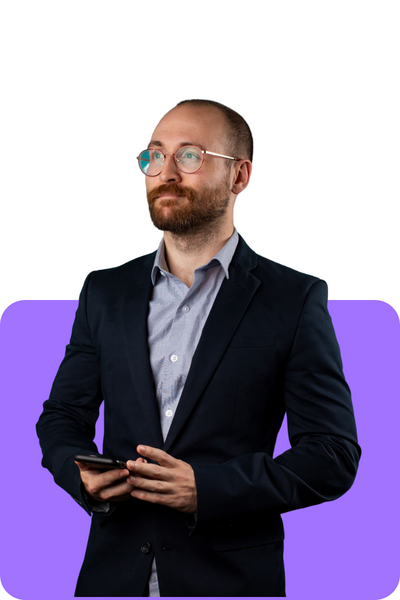
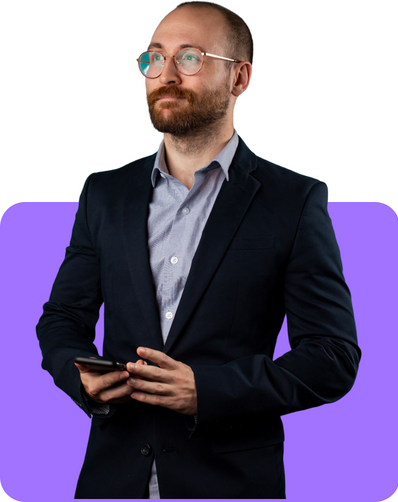
85% pronto

diff --git a/index.html b/index.html
@@ -13,12 +13,7 @@
             height: 92.5vh;
         }
         .w-350{
-            width: 450px;
-            height: fit-content;
-        }
-
-        .img-correct{
-            width: 450px;
+            width: 350px;
             height: fit-content;
         }
     </style>
@@ -37,10 +32,10 @@
                         <a href="#" class="nav-link active" aria-current="page">Home</a>
                     </li>
                     <li class="nav-item mx-4">
-                        <a href="#" class="nav-link" aria-current="page">About Us</a>
+                        <a href="#about-us" class="nav-link" aria-current="page">About Us</a>
                     </li>
                     <li class="nav-item mx-4">
-                        <a href="#" class="nav-link" aria-current="page">Contact</a>
+                        <a href="#" class="nav-link disabled" aria-current="page">Contact</a>
                     </li>
                     <button class="btn btn-primary">
                        <a href="#" class="text-light btn p-0">Subscribe</a> 
@@ -51,29 +46,29 @@
     </nav>
 
     <main>
-        <div class="container d-flex flex-column flex-lg-row align-items-center vh-80">
+        <div class="container d-flex flex-column flex-lg-row align-items-center h-50 pb-5 pt-5 p-0">
             <div class="d-flex justify-content-center flex-column p-md-5">
                 <h1 class="m-md-3 display-1 font-weight-bold">Study and Grow Up with us</h1>
-                <p class="m-md-3 fs-3 font-weight-bold display-7">sign up now and get access to a variety of classes and support from professionals in the field</p>
+                <p class="m-md-3 fs-3 font-weight-bold                                      display-md-7 text-justify">sign up now and get access to a variety of classes and support from professionals in the field</p>
                 <button class="m-md-3 btn btn-info w-50" type="button">
                   <a href="#" class="text-light btn p-0">Subscribe now!</a>  
                 </button>
             </div>
-            <img  class="w-sm-50 d-block m-md-3 w-350" src="./assets/Design sem nome (3).png" alt="">
+            <img  class="w-sm-50 d-block m-md-3 w-350 w-50 mw-100 d-md-block d-none h" src="./assets/Design sem nome (3).png" alt="">
         </div>
-        <hr>
-        <div class="d-flex justify-content-center flex-row p-md-5">
-            <div class="card text-center w-350 m-2">
-                <img class="card-img-top w-350 img-correct" src="./assets/priscilla-du-preez-XkKCui44iM0-unsplash.jpg" alt="">
+        <hr class="w-75 m-auto">
+        <div class="card-deck d-flex flex-column justify-content-evenly align-items-center flex-lg-row ">
+            <div class="card text-center w-350 display-inline-block m-5">
+                <img class="card-img-top w-350" src="./assets/priscilla-du-preez-XkKCui44iM0-unsplash.jpg" alt="">
                 <div class="card-header">
                     <h4 class="card-title display-5">3000 students</h4>
                 </div>
                 <div class="card-body">
-                    <div class="card-text"></div>
+                    <div class="card-text">More than 500 teachers who teach on our platform and offer support at different times</div>
                 </div>
             </div>
-            <div class="card text-center w-350 m-2">
-                <img class="card-img-top w-350 img-correct" src="./assets/christopher-gower-m_HRfLhgABo-unsplash.jpg" alt="">
+            <div class="card text-center w-350 ">
+                <img class="card-img-top w-350" src="./assets/christopher-gower-m_HRfLhgABo-unsplash.jpg" alt="">
                 <div class="card-header">
                     <h4 class="card-title  display-5">Cost benefit</h4>
                 </div>
@@ -81,8 +76,8 @@
                     <div class="card-text">More than 500 teachers who teach on our platform and offer support at different times</div>
                 </div>
             </div>
-            <div class="card text-center w-350 m-2">
-                <img class="card-img-top w-350 img-correct" src="./assets/kimberly-farmer-lUaaKCUANVI-unsplash (1).jpg" alt="">
+            <div class="card text-center w-350  border-bottom">
+                <img class="card-img-top w-350" src="./assets/kimberly-farmer-lUaaKCUANVI-unsplash (1).jpg" alt="">
                 <div class="card-header">
                     <h4 class="card-title  display-5">+500 teachers</h4>
                 </div>
@@ -92,7 +87,7 @@
             </div>
         </div>
         <hr>
-        <div class="container d-flex flex-column flex-lg-row align-items-center vh-80">
+        <div id="about-us" class="container d-flex flex-column flex-lg-row align-items-center pt-5 pb-5 p-0">
             <div class="order-1 d-flex justify-content-center flex-column p-md-5">
                 <h1 class="m-md-3 display-1 font-weight-bold">Our Company</h1>
                 <p class="m-md-3 fs-3 font-weight-bold display-7">More than 7 years of experience, 10,000 students trained and assisted, partnerships and campaigns promoting solidarity</p>
@@ -130,6 +125,9 @@
             </ol>
         </div>
     </main>
+    <footer>
+
+    </footer>
 
   <script src="https://cdn.jsdelivr.net/npm/@popperjs/core@2.11.6/dist/umd/popper.min.js" integrity="sha384-oBqDVmMz9ATKxIep9tiCxS/Z9fNfEXiDAYTujMAeBAsjFuCZSmKbSSUnQlmh/jp3" crossorigin="anonymous"></script>
   <script src="https://cdn.jsdelivr.net/npm/bootstrap@5.2.2/dist/js/bootstrap.min.js" integrity="sha384-IDwe1+LCz02ROU9k972gdyvl+AESN10+x7tBKgc9I5HFtuNz0wWnPclzo6p9vxnk" crossorigin="anonymous"></script>
